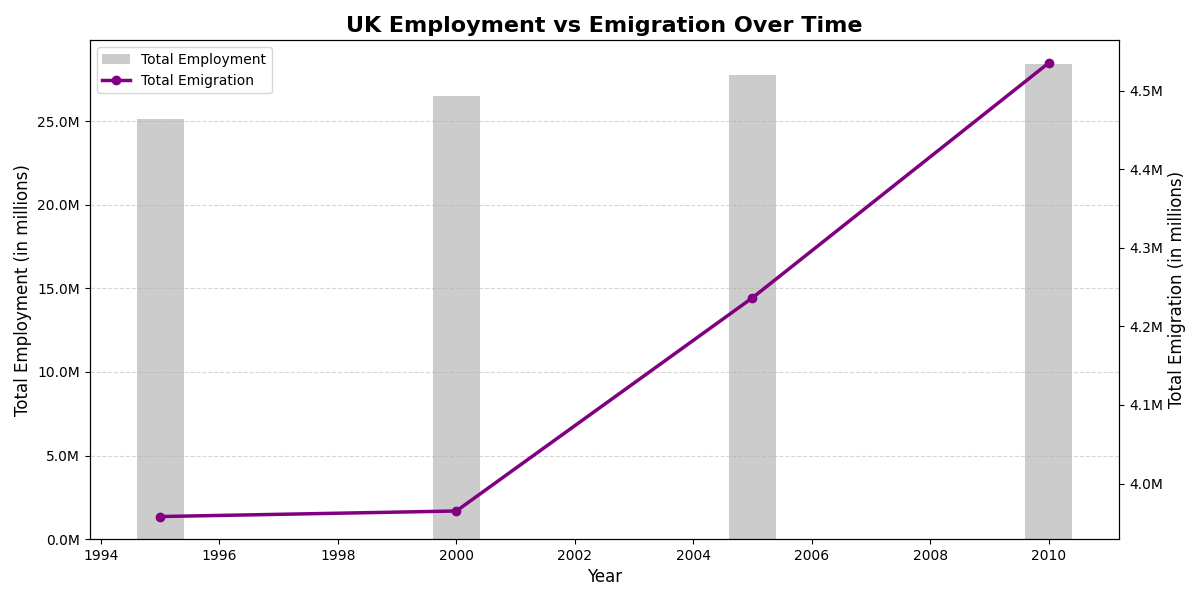
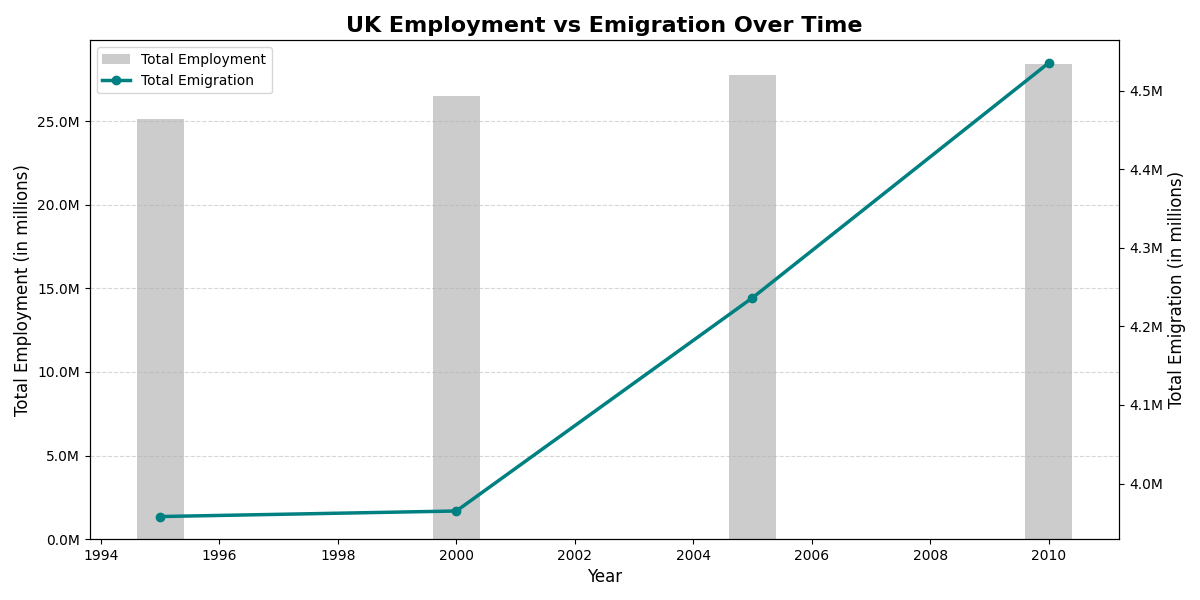
Making colours of each graph the same

diff --git a/Immigration project/employment_vs_emmigration_REAL.py b/Immigration project/employment_vs_emmigration_REAL.py
@@ -33,7 +33,7 @@ plt.figure(figsize=(12, 6))
 plt.plot(
     merged.index,
     merged['Approx total number of employees'],
-    color='purple',
+    color='red',
     linewidth=2.5,
     marker='o',
     label='Total Employment'

diff --git a/Immigration project/Employemnt_vs_emmigrants.py b/Immigration project/Employemnt_vs_emmigrants.py
@@ -65,7 +65,7 @@ ax2 = ax1.twinx()
 ax2.plot(
     merged.index,
     merged['Total number of emmigrants'],
-    color='purple',
+    color='teal',
     marker='o',
     linewidth=2.5,
     label='Total Emigration'
